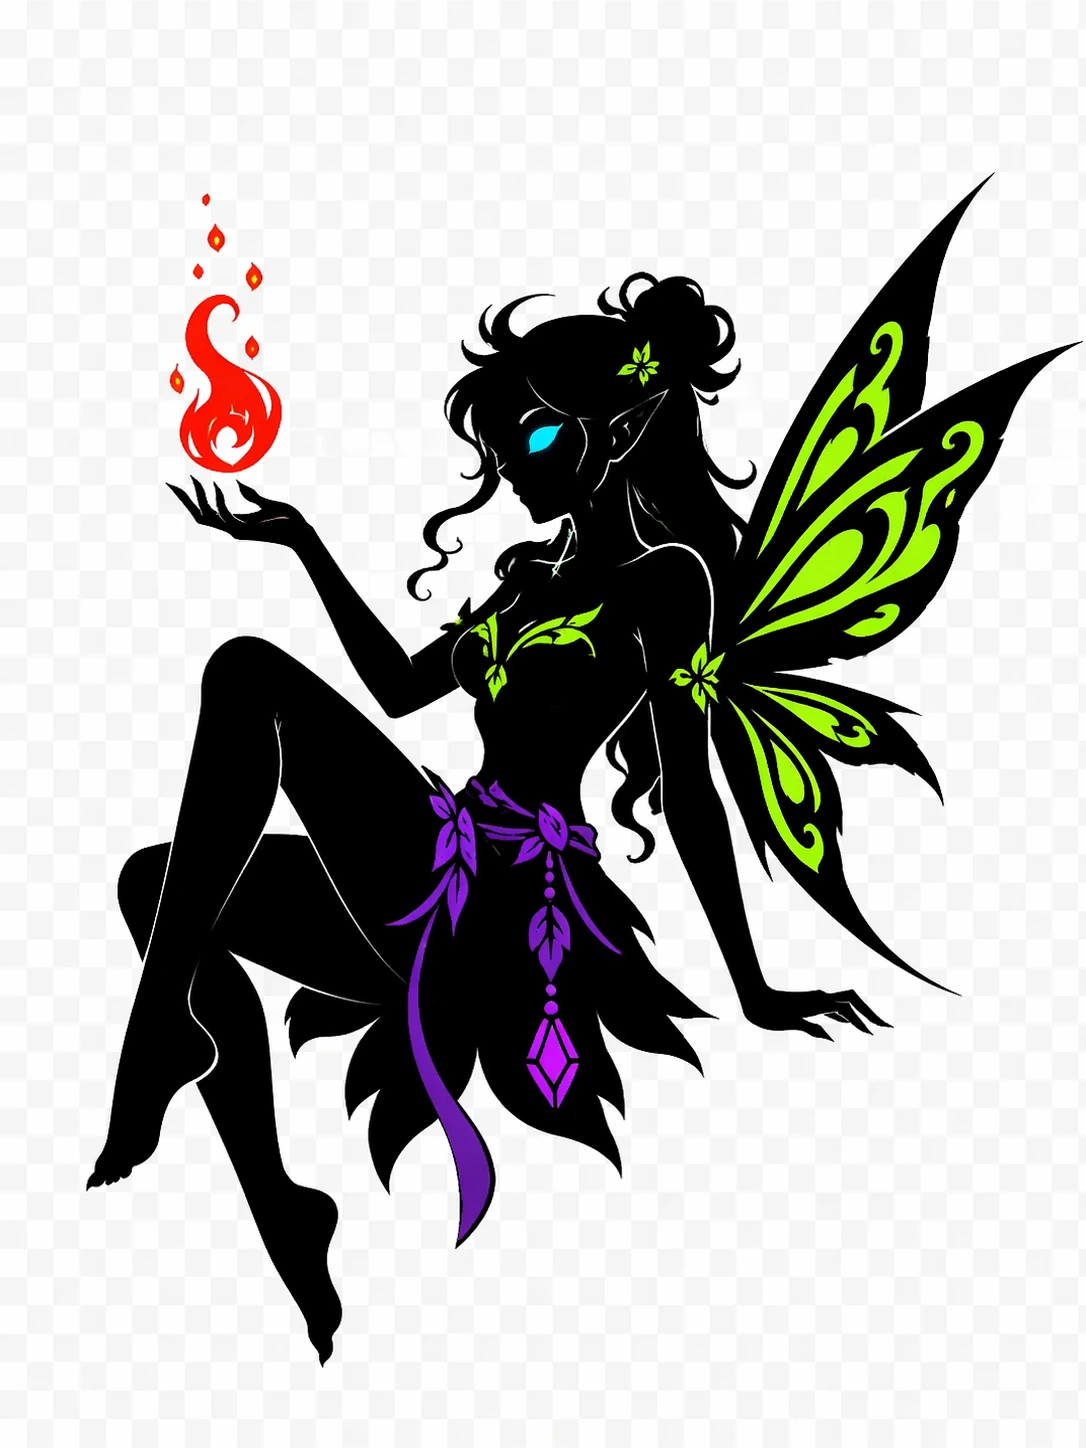
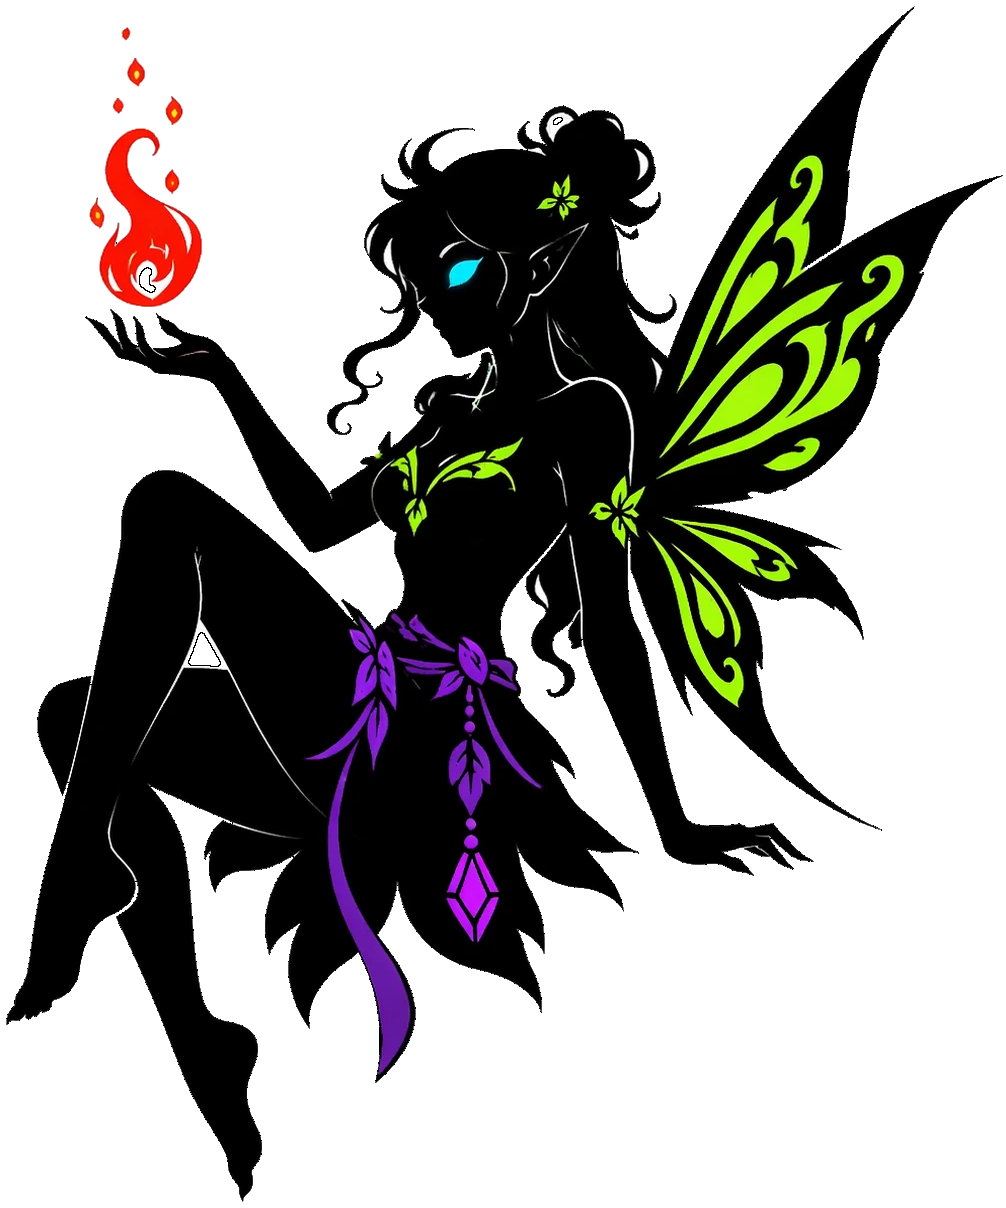
Fix Lamia lab boss presentation and asset cleanup

diff --git a/PrismQuest_RPG_v1.01.py b/PrismQuest_RPG_v1.01.py
@@ -1523,7 +1523,72 @@ body {
   max-height: 220px;
 }
 .mq-lab-single-monster-shell {
-  width: min(100%, 22rem);
+  width: 100%;
+}
+.mq-lab-single-monster-card {
+  width: 100%;
+  display: grid;
+  grid-template-columns: minmax(0, 1.15fr) minmax(15rem, 0.85fr);
+  gap: 0.9rem;
+  align-items: stretch;
+}
+.mq-lab-single-monster-card-solo {
+  grid-template-columns: minmax(0, 1fr);
+  max-width: 27rem;
+  margin-inline: auto;
+}
+.mq-lab-single-monster-main {
+  width: 100%;
+  display: flex;
+  flex-direction: column;
+  align-items: center;
+  gap: 0.7rem;
+}
+.mq-lab-single-monster-stage-wrap {
+  width: 100%;
+}
+.mq-lab-boss-stats {
+  width: 100%;
+  display: grid;
+  gap: 0.7rem;
+  align-content: start;
+}
+.mq-lab-boss-stats-grid {
+  display: grid;
+  grid-template-columns: repeat(2, minmax(0, 1fr));
+  gap: 0.55rem;
+}
+.mq-lab-boss-stat {
+  border-radius: 14px;
+  border: 1px solid rgba(255,255,255,0.08);
+  background:
+    linear-gradient(180deg, rgba(255,255,255,0.03), rgba(255,255,255,0.01)),
+    linear-gradient(180deg, rgba(13, 20, 34, 0.98), rgba(8, 10, 16, 1));
+  padding: 0.65rem 0.75rem;
+  box-shadow:
+    inset 0 1px 0 rgba(255,255,255,0.03),
+    inset 0 -16px 24px rgba(0,0,0,0.18);
+}
+.mq-lab-boss-stat-label {
+  display: block;
+  font-size: 0.68rem;
+  line-height: 1;
+  letter-spacing: 0.16em;
+  text-transform: uppercase;
+  color: rgba(192, 205, 223, 0.72);
+  margin-bottom: 0.32rem;
+}
+.mq-lab-boss-stat-value {
+  display: block;
+  font-size: 0.98rem;
+  line-height: 1.2;
+  font-weight: 700;
+  color: #f8fafc;
+}
+@media (max-width: 980px) {
+  .mq-lab-single-monster-card {
+    grid-template-columns: minmax(0, 1fr);
+  }
 }
 .mq-lab-grid-title {
   font-size: 2rem;
@@ -16387,6 +16452,30 @@ def _labyrinth_damage_popup_html(raw_pending: object, target_key: object) -> str
     return f"<div class='mq-damage-float {tone}'>{html.escape(text)}</div>"
 
 
+def _labyrinth_monster_stat_rows(monster_snapshot: object) -> List[Tuple[str, str]]:
+    if not isinstance(monster_snapshot, dict):
+        return []
+    attack_min = max(1, int(monster_snapshot.get('attack_min', 1) or 1))
+    attack_max = max(attack_min, int(monster_snapshot.get('attack_max', attack_min) or attack_min))
+    physical_armor = max(0, int(monster_snapshot.get('physical_armor', 0) or 0))
+    magic_resistance = max(0, int(monster_snapshot.get('magic_resistance', 0) or 0))
+    speed = max(0, int(monster_snapshot.get('speed', 0) or 0))
+    accuracy = max(0.0, float(monster_snapshot.get('accuracy', 0.0) or 0.0))
+    crit_chance = max(0.0, float(monster_snapshot.get('crit_chance', 0.0) or 0.0))
+    evasion = max(0.0, float(monster_snapshot.get('evasion', 0.0) or 0.0))
+    damage_school = str(monster_snapshot.get('damage_school') or 'physical').strip().title()
+    return [
+        ('Attack', f'{attack_min}-{attack_max}'),
+        ('Armor', str(physical_armor)),
+        ('M.Res', str(magic_resistance)),
+        ('Speed', str(speed)),
+        ('Accuracy', f'{int(round(accuracy * 100.0))}%'),
+        ('Crit', f'{int(round(crit_chance * 100.0))}%'),
+        ('Evasion', f'{int(round(evasion * 100.0))}%'),
+        ('School', damage_school),
+    ]
+
+
 def _labyrinth_encounter_monster_count(party_size: object, boss: bool = False) -> int:
     if boss:
         return 1
@@ -17235,7 +17324,8 @@ def _labyrinth_choose_template(boss: bool = False) -> str:
     boss_pool = ['Lamia']
     if boss:
         return random.choice(boss_pool)
-    return str(random.choice(MONSTER_ARCHETYPES).get('type') or 'Templar')
+    normal_pool = [archetype for archetype in MONSTER_ARCHETYPES if str(archetype.get('type') or '').strip() != 'Lamia']
+    return str(random.choice(normal_pool or MONSTER_ARCHETYPES).get('type') or 'Templar')
 
 
 def _labyrinth_archetype_for_type(monster_type: object) -> Dict[str, object]:
@@ -24597,18 +24687,48 @@ def main_page(request: Request) -> None:
                                                     monster_level = int(monster_snapshot.get('level', pending_encounter.get('monster_level', max(LABYRINTH_UNLOCK_LEVEL, player.level))) or max(LABYRINTH_UNLOCK_LEVEL, player.level))
                                                     monster_uri = _arena_monster_data_uri(monster_type)
                                                     monster_popup_html = _labyrinth_damage_popup_html(pending_encounter, 'monster-0')
-                                                    with ui.column().classes('mq-lab-single-monster-shell items-center mt-4 gap-3'):
-                                                        with ui.element('div').classes(f"mq-scene-stage mq-monster-stage-themed mq-lab-monster-stage mq-lab-monster-stage-large w-full{' mq-lab-boss-stage' if bool(pending_encounter.get('boss', False)) else ''}").style(monster_theme_style(monster_type)):
-                                                            if monster_uri:
-                                                                with ui.element('div').classes('mq-monster-image-wrap'):
-                                                                    ui.html(f"<img src='{html.escape(monster_uri, quote=True)}' alt='{html.escape(monster_type)}' class='mq-monster-image-static' loading='lazy' decoding='async' draggable='false'>")
-                                                            else:
-                                                                ui.label(monster_species_name(monster_type)).classes('text-3xl font-semibold text-slate-100')
-                                                        ui.label(f'{monster_type} • Level {monster_level}' + (' • Floor Boss' if bool(pending_encounter.get('boss', False)) else '')).classes('text-slate-200 text-2xl font-semibold text-center')
-                                                        with ui.element('div').classes('mq-meter-shell w-full'):
-                                                            ui.html(animated_meter_html('labyrinth-monster-hp', 'HP', int(monster_snapshot.get('hp', 1) or 1), max(1, int(monster_snapshot.get('max_hp', 1) or 1)), 'hp', 950, cycle=f'{pending_encounter.get("sequence",0)}-{monster_snapshot.get("hp",0)}'))
-                                                            if monster_popup_html:
-                                                                ui.html(monster_popup_html)
+                                                    monster_hp = int(monster_snapshot.get('hp', 1) or 1)
+                                                    monster_max_hp = max(1, int(monster_snapshot.get('max_hp', 1) or 1))
+                                                    is_boss_monster = bool(pending_encounter.get('boss', False))
+                                                    monster_heading = f'{monster_type} • Level {monster_level}' + (' • Floor Boss' if is_boss_monster else '')
+                                                    monster_stat_rows = _labyrinth_monster_stat_rows(monster_snapshot) if is_boss_monster else []
+                                                    card_classes = 'mq-lab-single-monster-card'
+                                                    if not monster_stat_rows:
+                                                        card_classes += ' mq-lab-single-monster-card-solo'
+                                                    with ui.element('div').classes('mq-lab-single-monster-shell mt-4'):
+                                                        with ui.element('div').classes(card_classes):
+                                                            with ui.card().classes('mq-panel-frame mq-lab-monster-card w-full p-3'):
+                                                                with ui.column().classes('mq-lab-single-monster-main'):
+                                                                    with ui.element('div').classes('mq-lab-single-monster-stage-wrap'):
+                                                                        with ui.element('div').classes(f"mq-scene-stage mq-monster-stage-themed mq-lab-monster-stage mq-lab-monster-stage-large w-full{' mq-lab-boss-stage' if is_boss_monster else ''}").style(monster_theme_style(monster_type)):
+                                                                            if monster_uri:
+                                                                                with ui.element('div').classes('mq-monster-image-wrap'):
+                                                                                    ui.html(f"<img src='{html.escape(monster_uri, quote=True)}' alt='{html.escape(monster_type)}' class='mq-monster-image-static' loading='lazy' decoding='async' draggable='false'>")
+                                                                            else:
+                                                                                ui.label(monster_species_name(monster_type)).classes('text-3xl font-semibold text-slate-100')
+                                                                    if not monster_stat_rows:
+                                                                        ui.label(monster_heading).classes('text-slate-200 text-2xl font-semibold text-center')
+                                                                        with ui.element('div').classes('mq-meter-shell w-full'):
+                                                                            ui.html(animated_meter_html('labyrinth-monster-hp', 'HP', monster_hp, monster_max_hp, 'hp', 950, cycle=f'{pending_encounter.get("sequence",0)}-{monster_hp}'))
+                                                                            if monster_popup_html:
+                                                                                ui.html(monster_popup_html)
+                                                            if monster_stat_rows:
+                                                                with ui.card().classes('mq-panel-frame w-full p-4'):
+                                                                    with ui.column().classes('mq-lab-boss-stats'):
+                                                                        ui.label(monster_heading).classes('text-slate-100 text-2xl font-semibold')
+                                                                        ui.label('Boss Readings').classes('mq-detail-text')
+                                                                        with ui.element('div').classes('mq-lab-boss-stats-grid mt-1'):
+                                                                            for stat_label, stat_value in monster_stat_rows:
+                                                                                ui.html(
+                                                                                    "<div class='mq-lab-boss-stat'>"
+                                                                                    f"<span class='mq-lab-boss-stat-label'>{html.escape(stat_label)}</span>"
+                                                                                    f"<span class='mq-lab-boss-stat-value'>{html.escape(stat_value)}</span>"
+                                                                                    "</div>"
+                                                                                )
+                                                                        with ui.element('div').classes('mq-meter-shell w-full mt-2'):
+                                                                            ui.html(animated_meter_html('labyrinth-monster-hp', 'HP', monster_hp, monster_max_hp, 'hp', 950, cycle=f'{pending_encounter.get("sequence",0)}-{monster_hp}'))
+                                                                            if monster_popup_html:
+                                                                                ui.html(monster_popup_html)
                                                 else:
                                                     with ui.element('div').classes('mq-lab-pack-grid mt-4'):
                                                         for monster_index, monster_snapshot in enumerate(encounter_monster_snapshots):
